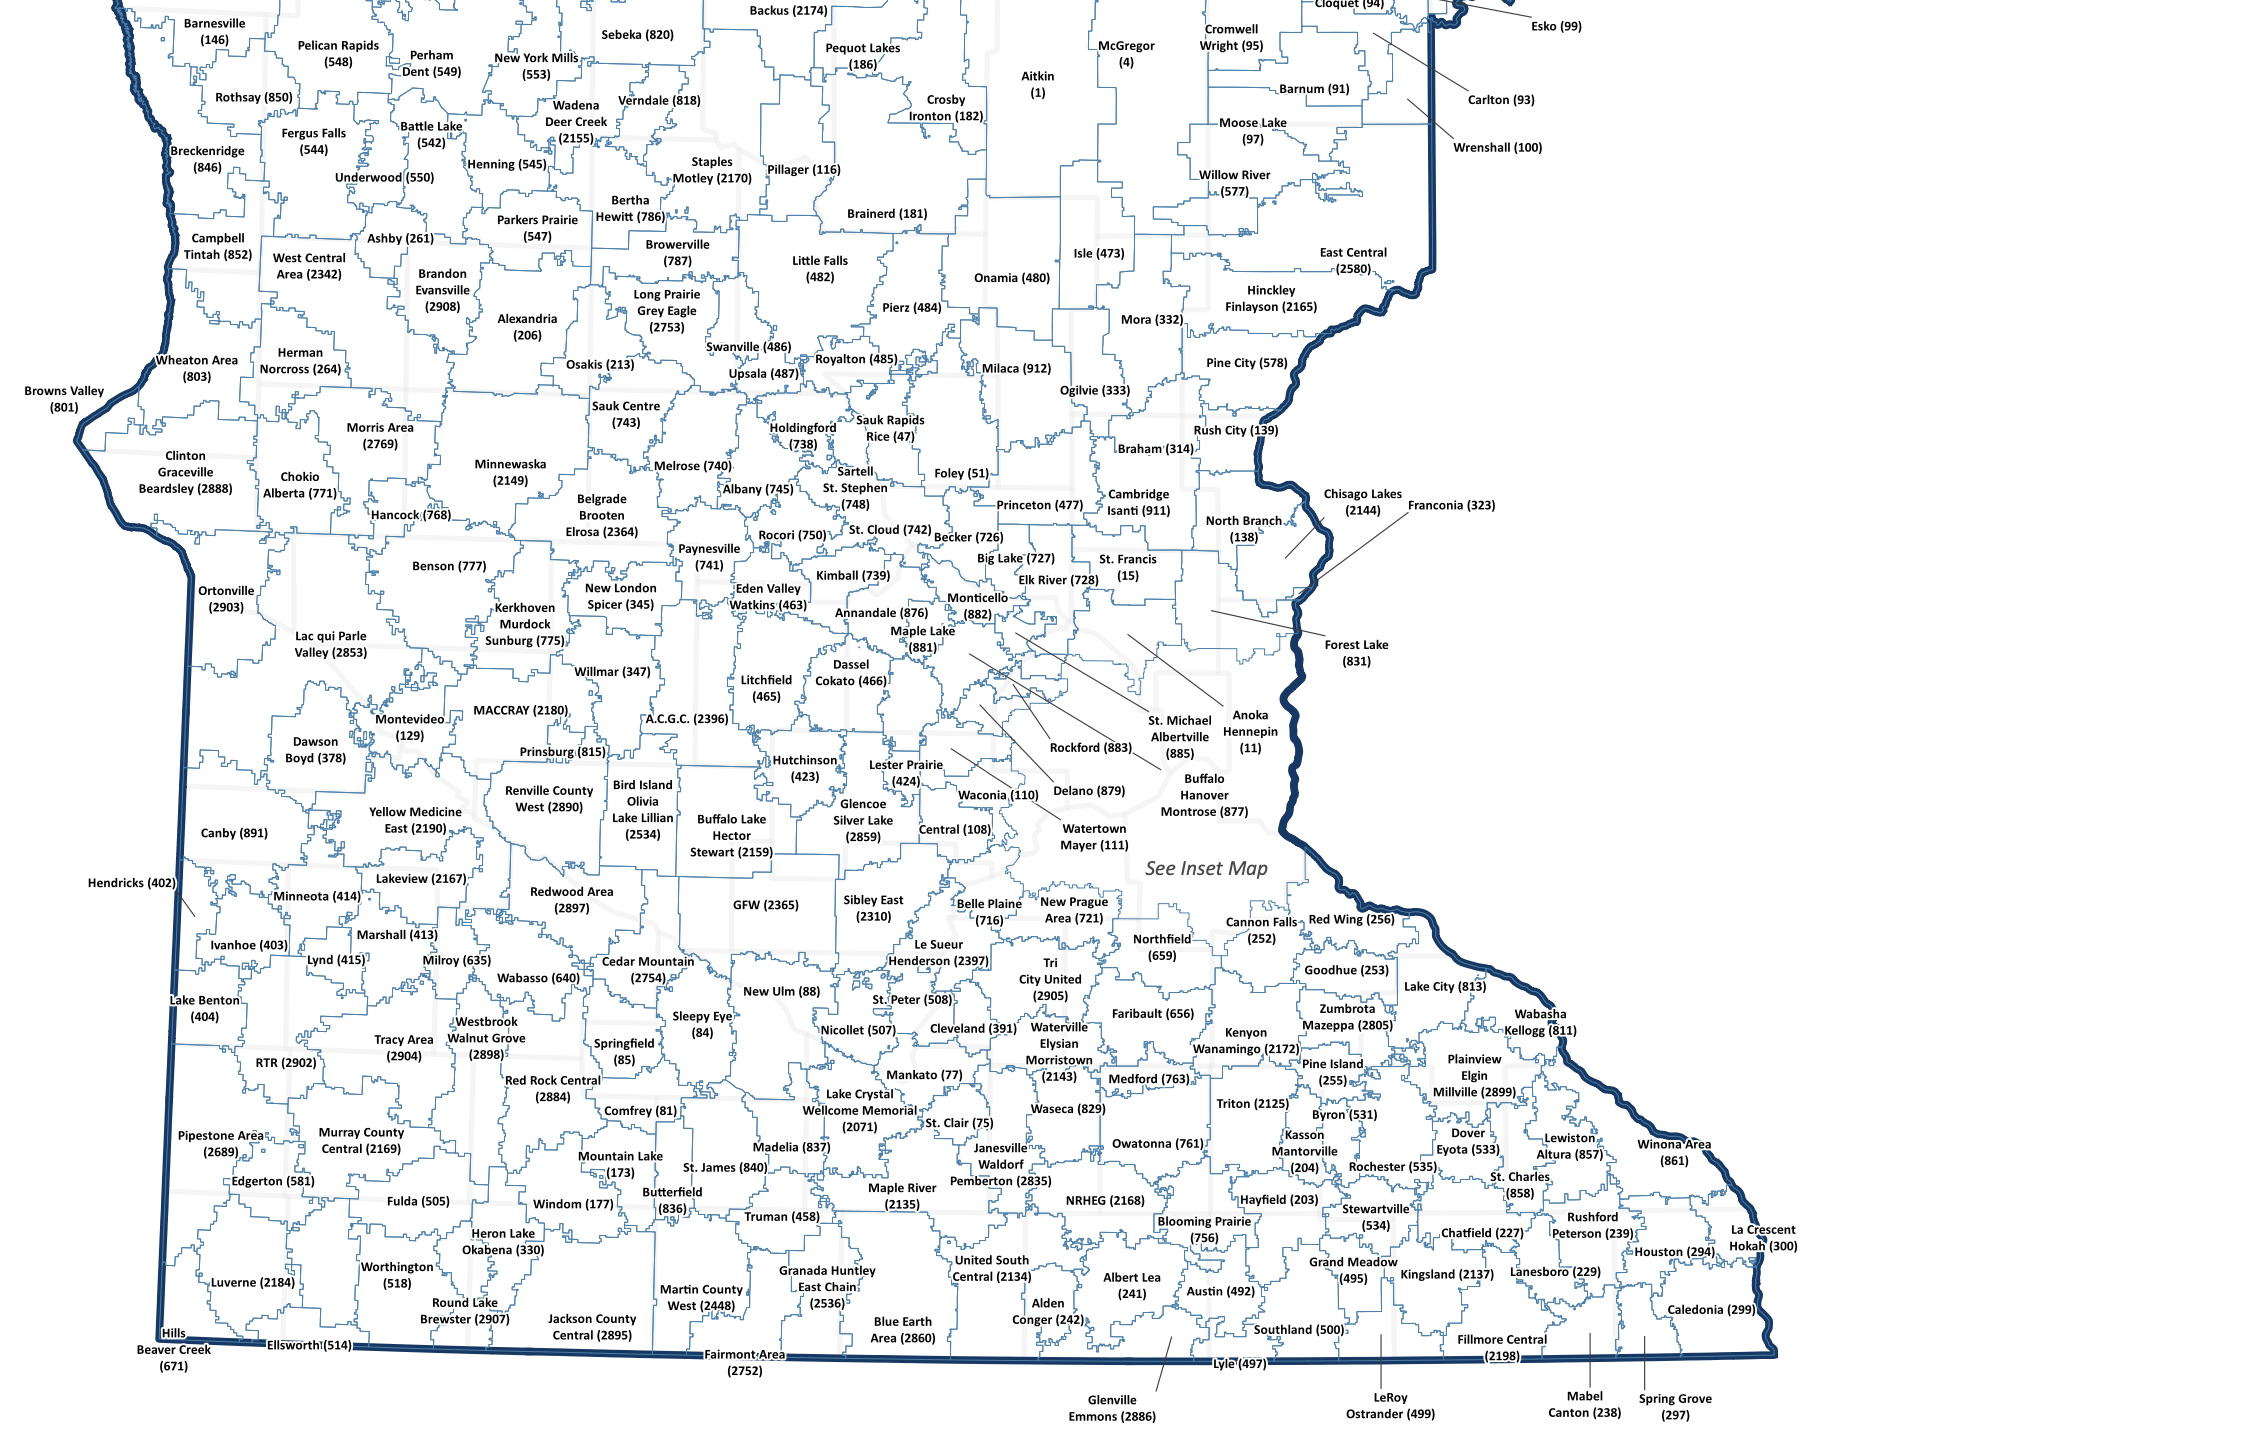
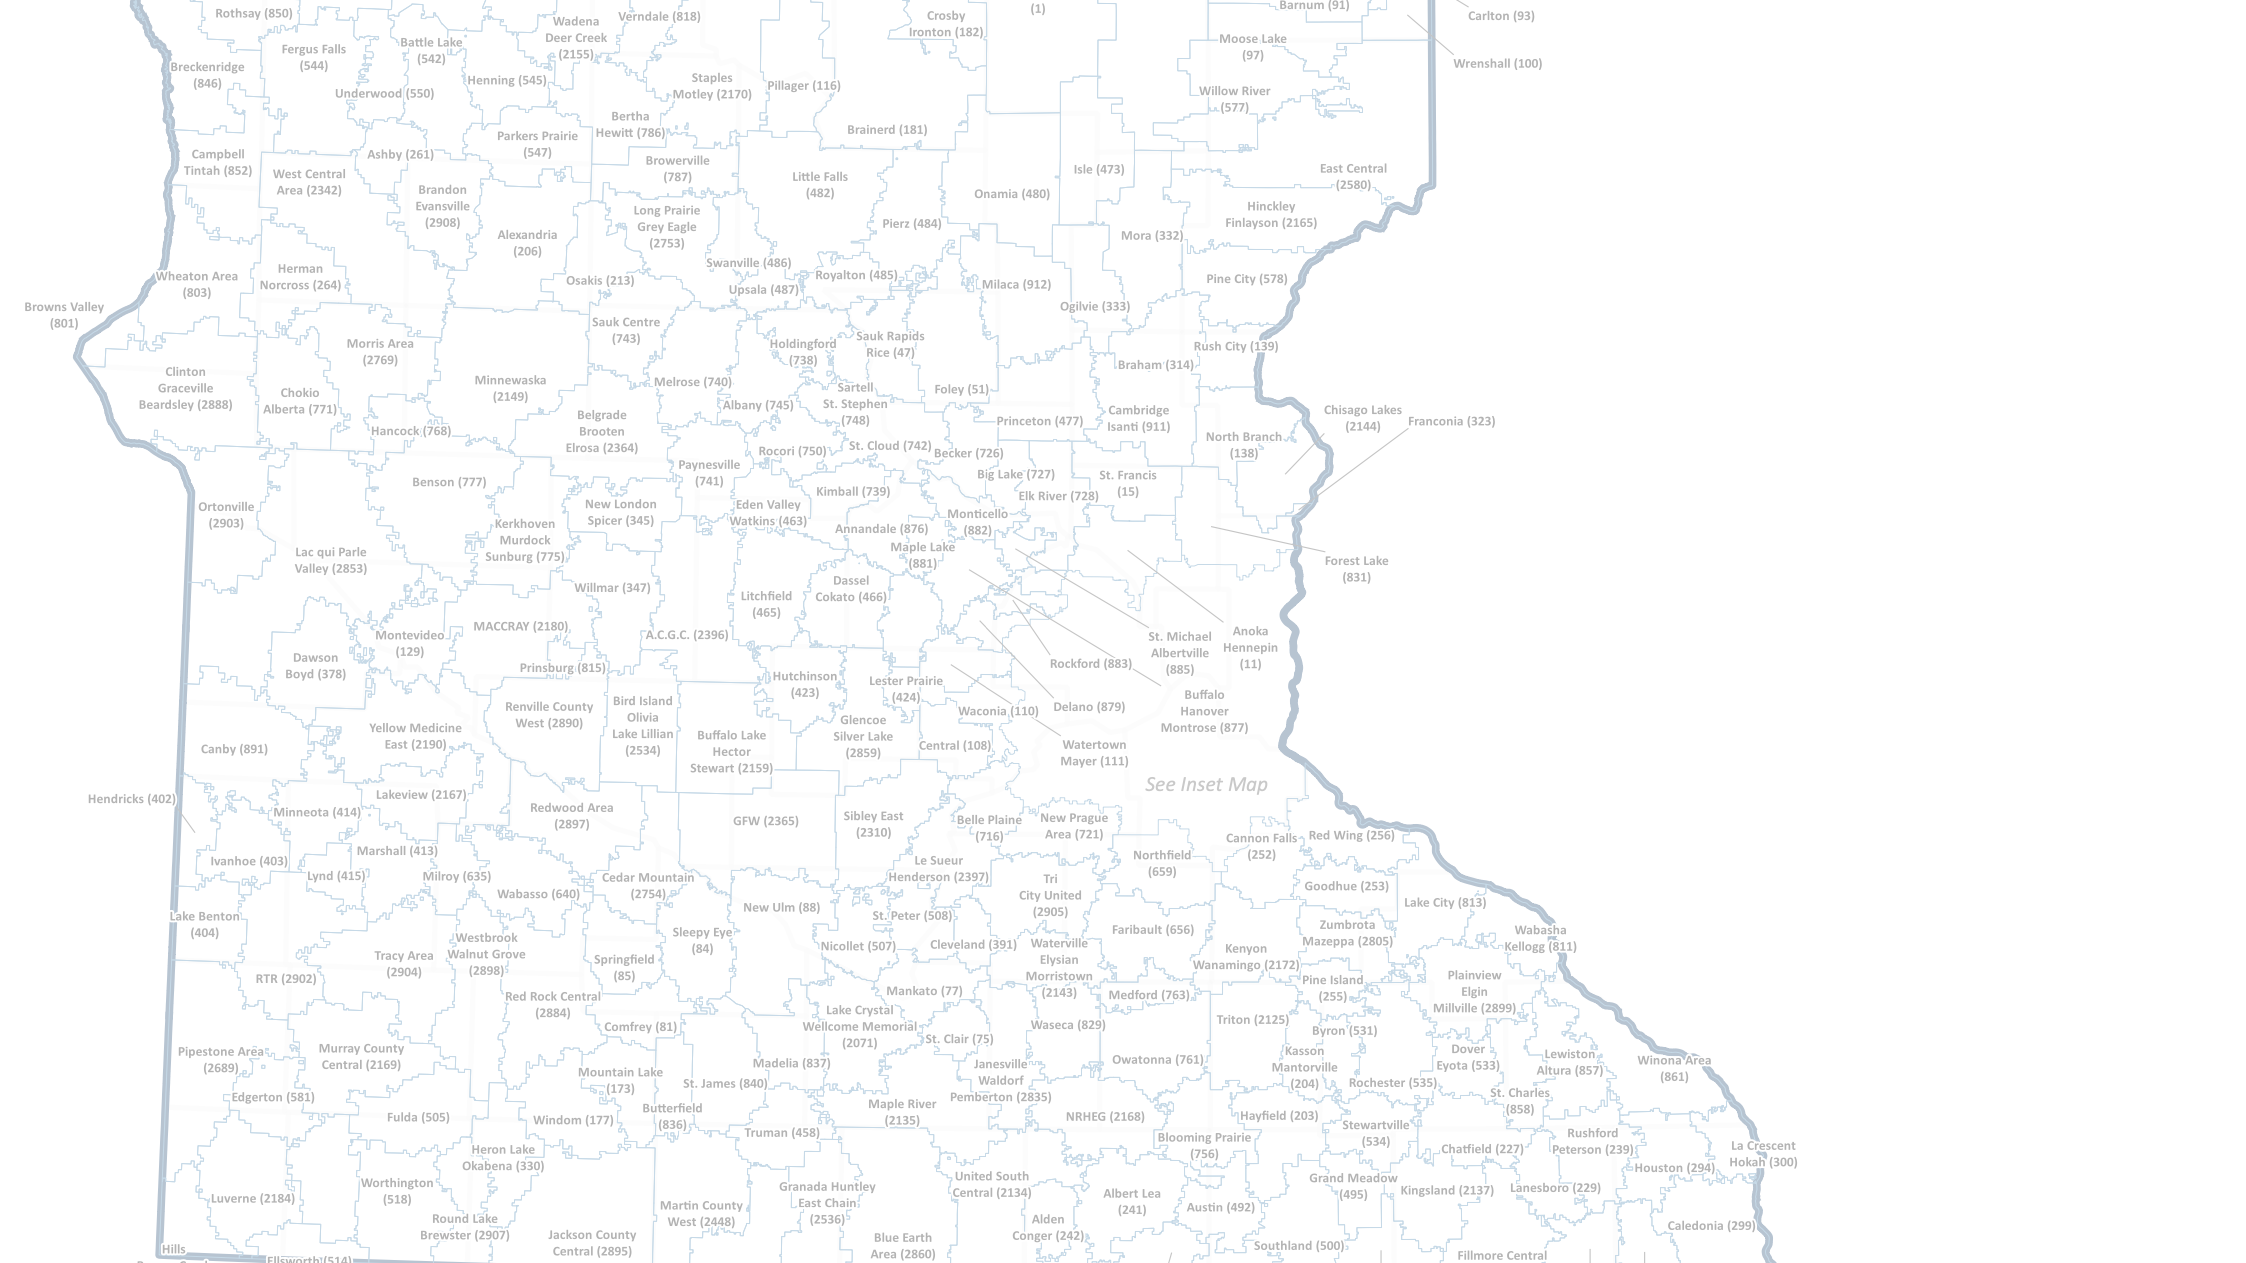
Wrote the homepage and modified the css

Changed region(s): [[0.0, 0.0, 0.8103, 1.0], [0.374, 0.9881, 0.4363, 1.0]]

diff --git a/templates/homepage.html b/templates/homepage.html
@@ -6,6 +6,14 @@
     <!-- Making Flask comprehend the css file -->
 <!--    <link rel= "stylesheet" type= "text/css" href= "{{ url_for('static',filename='/batmend_static/styles/mainpage.css') }}">-->
     <link rel="stylesheet" href="../static/styles/universal.css">
+    <style>
+      .datausage {
+        border radius: 2px;
+        margin-bottom: 50px;
+        box-shadow: inset 0 0 0 1000px rgba(257,257,257,.7);
+        padding: 20px;
+      }
+    </style>
   </head>
 
   <body>
@@ -22,12 +30,13 @@
 
     <!-- Description of the website -->
     <div>
-      <h2 style="text-align:center">Who are we and what we do</h2>
+
     </div>
 
     <!-- How to use -->
-    <div>
-      <ul style="margin-left:500px">
+    <div class="block">
+      <h2 style="text-align:center">Who are we and what we do</h2>
+      <ul style="text-align:left">
         <li>We are MN Schools, and we want to help you find the most suitable school!</li>
         <li>You can use our smart filters and pick the best-fitting place to study.</li>
         <li>If you want to see all schools or districts available, then click on "see all schools/districts".</li>
@@ -37,7 +46,7 @@
     <br>
 
     <!-- Data links and legal stuff -->
-    <div>
+    <div class="datausage">
       <h2>Data source</h2>
       <p>Data retrieved from <a href="https://www.covidschooldatahub.com/for_researchers">"CovidSchoolDataHub"</a> on 3 April 2022.</p>
       <p><a href="https://www.covidschooldatahub.com/for_researchers/copyright">Data usage policy</a></p>

diff --git a/static/styles/universal.css b/static/styles/universal.css
@@ -8,18 +8,22 @@ body {
     margin: 0;
     font-family: 'Open Sans', sans-serif;
     background-color: #cccccc;
-    box-shadow:inset 0 0 0 2200px rgba(255, 255, 255, 0.8);
+    position: absolute;
+    width: 100%;
+    height: 100%;
 }
 
-body:after {
-    content: "";
-    background-color: white;
-    opacity: 0.4;
-    top: 0;
-    left: 0;
-    bottom: 0;
-    right: 0;
-    z-index: -1;
+/* Highlighting the text over the image */
+.block {
+    border radius: 2px;
+    margin-top: 50px;
+    margin-bottom: 100px;
+    margin-left: 320px;
+    margin-right: 320px;
+    border: 1px solid #000000;
+    /* The shadow itself */
+    box-shadow: inset 0 0 0 1000px rgba(257,257,257,.7);
+    padding: 20px;
 }
 
 header, footer, section {
@@ -54,10 +58,11 @@ header, footer {
 .heading {
   display: block;
   font-size: 60px;
-  margin-top: 2em;
-  margin-bottom: 2em;
-  margin-left: 0;
-  margin-right: 0;
+  margin-top: 100px;
+  margin-bottom: 100px;
+  margin-left: 420px;
+  margin-right: 420px;
+  box-shadow: inset 0 0 0 1000px rgba(257,257,257,.7);
   font-weight: bold;
 }
 
